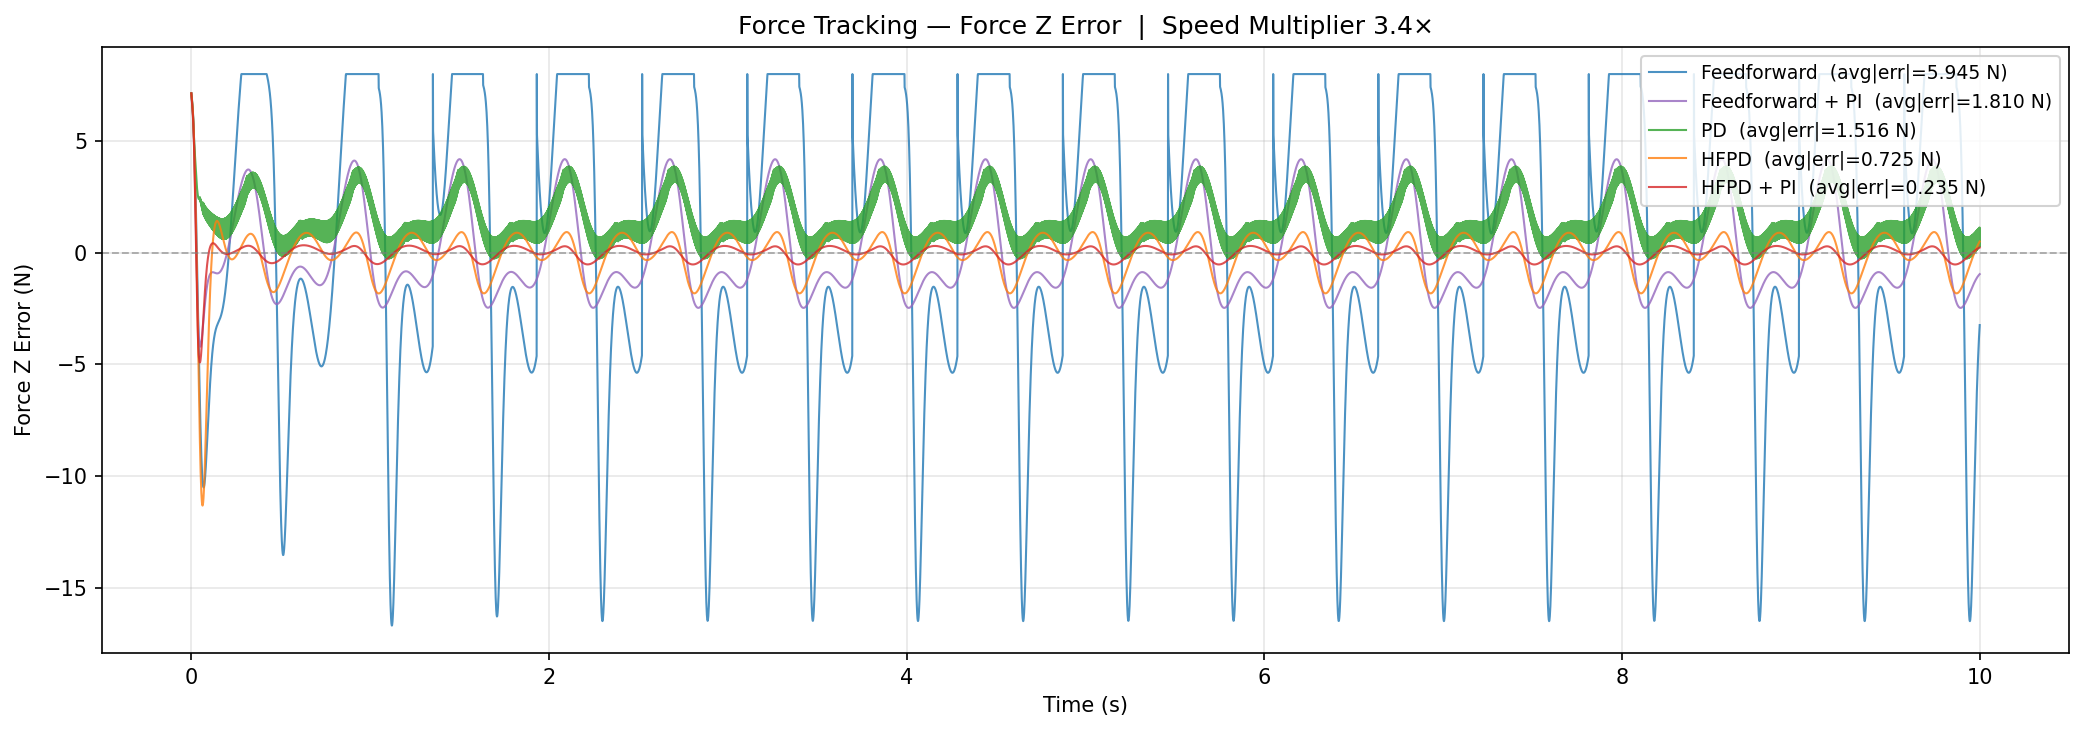
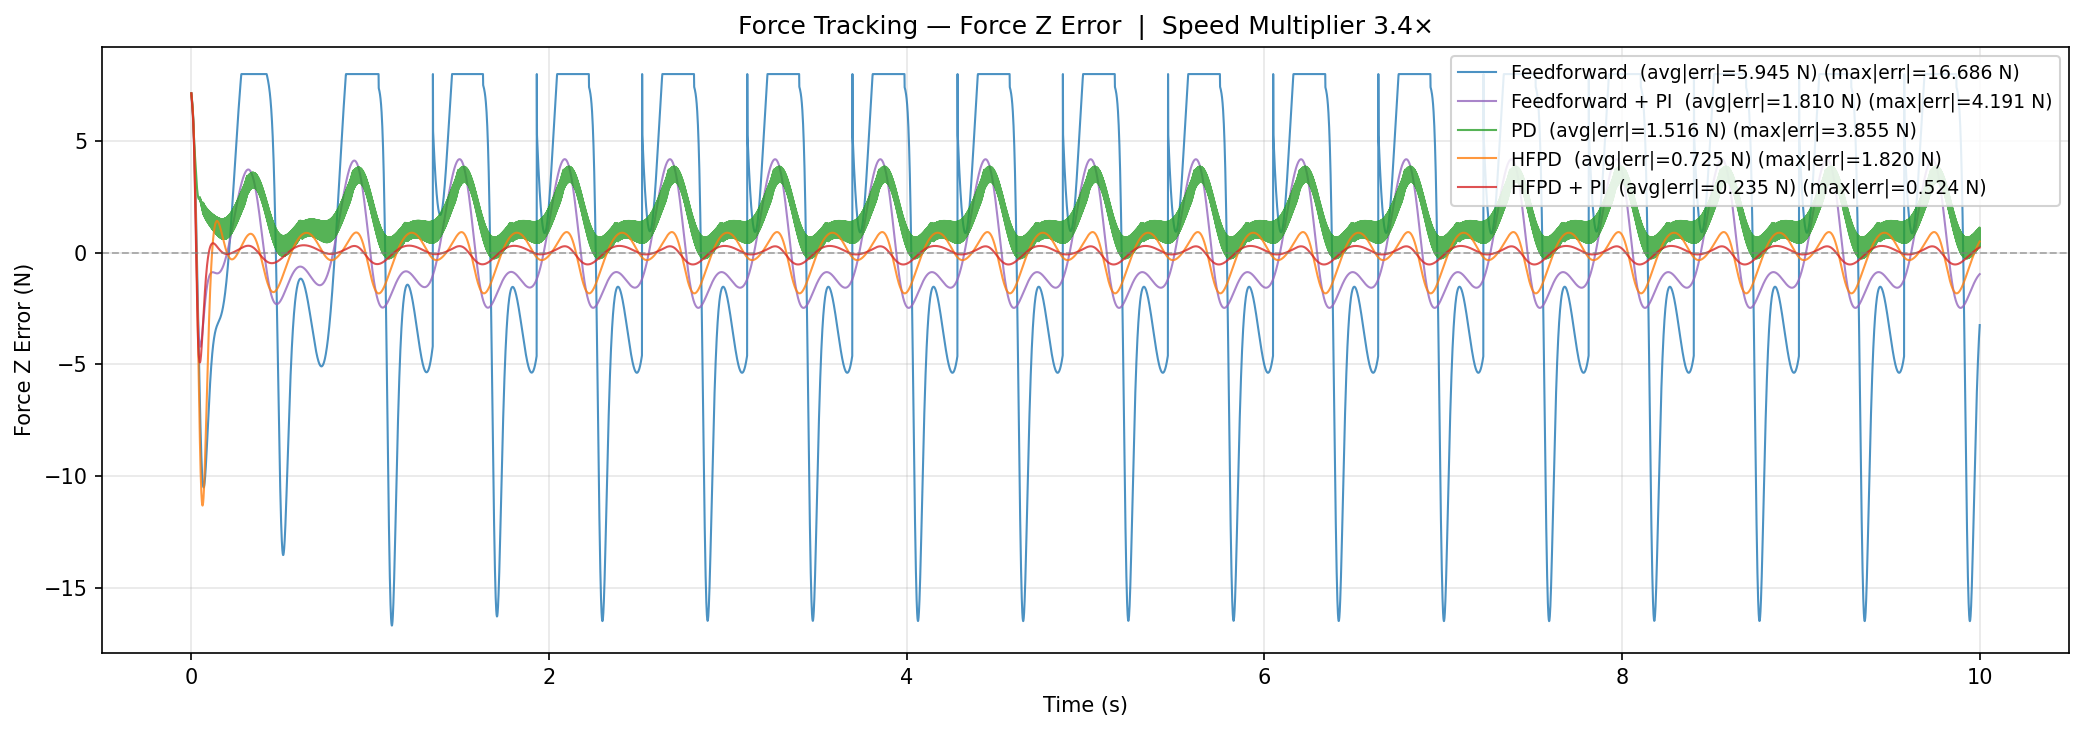
add max in plot

Changed region(s): [[0.6862, 0.0602, 0.9981, 0.301]]

diff --git a/angular_speed_sweep/plot_tracking_results_speed_MULTIPLIER.py b/angular_speed_sweep/plot_tracking_results_speed_MULTIPLIER.py
@@ -145,8 +145,11 @@ def plot_force_tracking(datasets: list) -> None:
         t  = make_time_axis(n)
         sk = int(SKIP_S / DT)
         avg = np.mean(np.abs(fe[sk:])) if n > sk else np.mean(np.abs(fe))
+        sk = int(1.0 / DT)
+        max = np.max(np.abs(fe[sk:])) if n > sk else np.max(np.abs(fe))
+        
         ax.plot(t, fe, color=color, linestyle=ls, linewidth=1.0, alpha=0.80,
-                label=f"{name}  (avg|err|={avg:.3f} N)")
+                label=f"{name}  (avg|err|={avg:.3f} N) (max|err|={max:.3f} N)")
 
     ax.axhline(0, color="gray", linestyle="--", linewidth=0.9, alpha=0.6)
     # ax.axvline(SKIP_S, color="gray", linestyle=":", linewidth=0.9, alpha=0.6,
